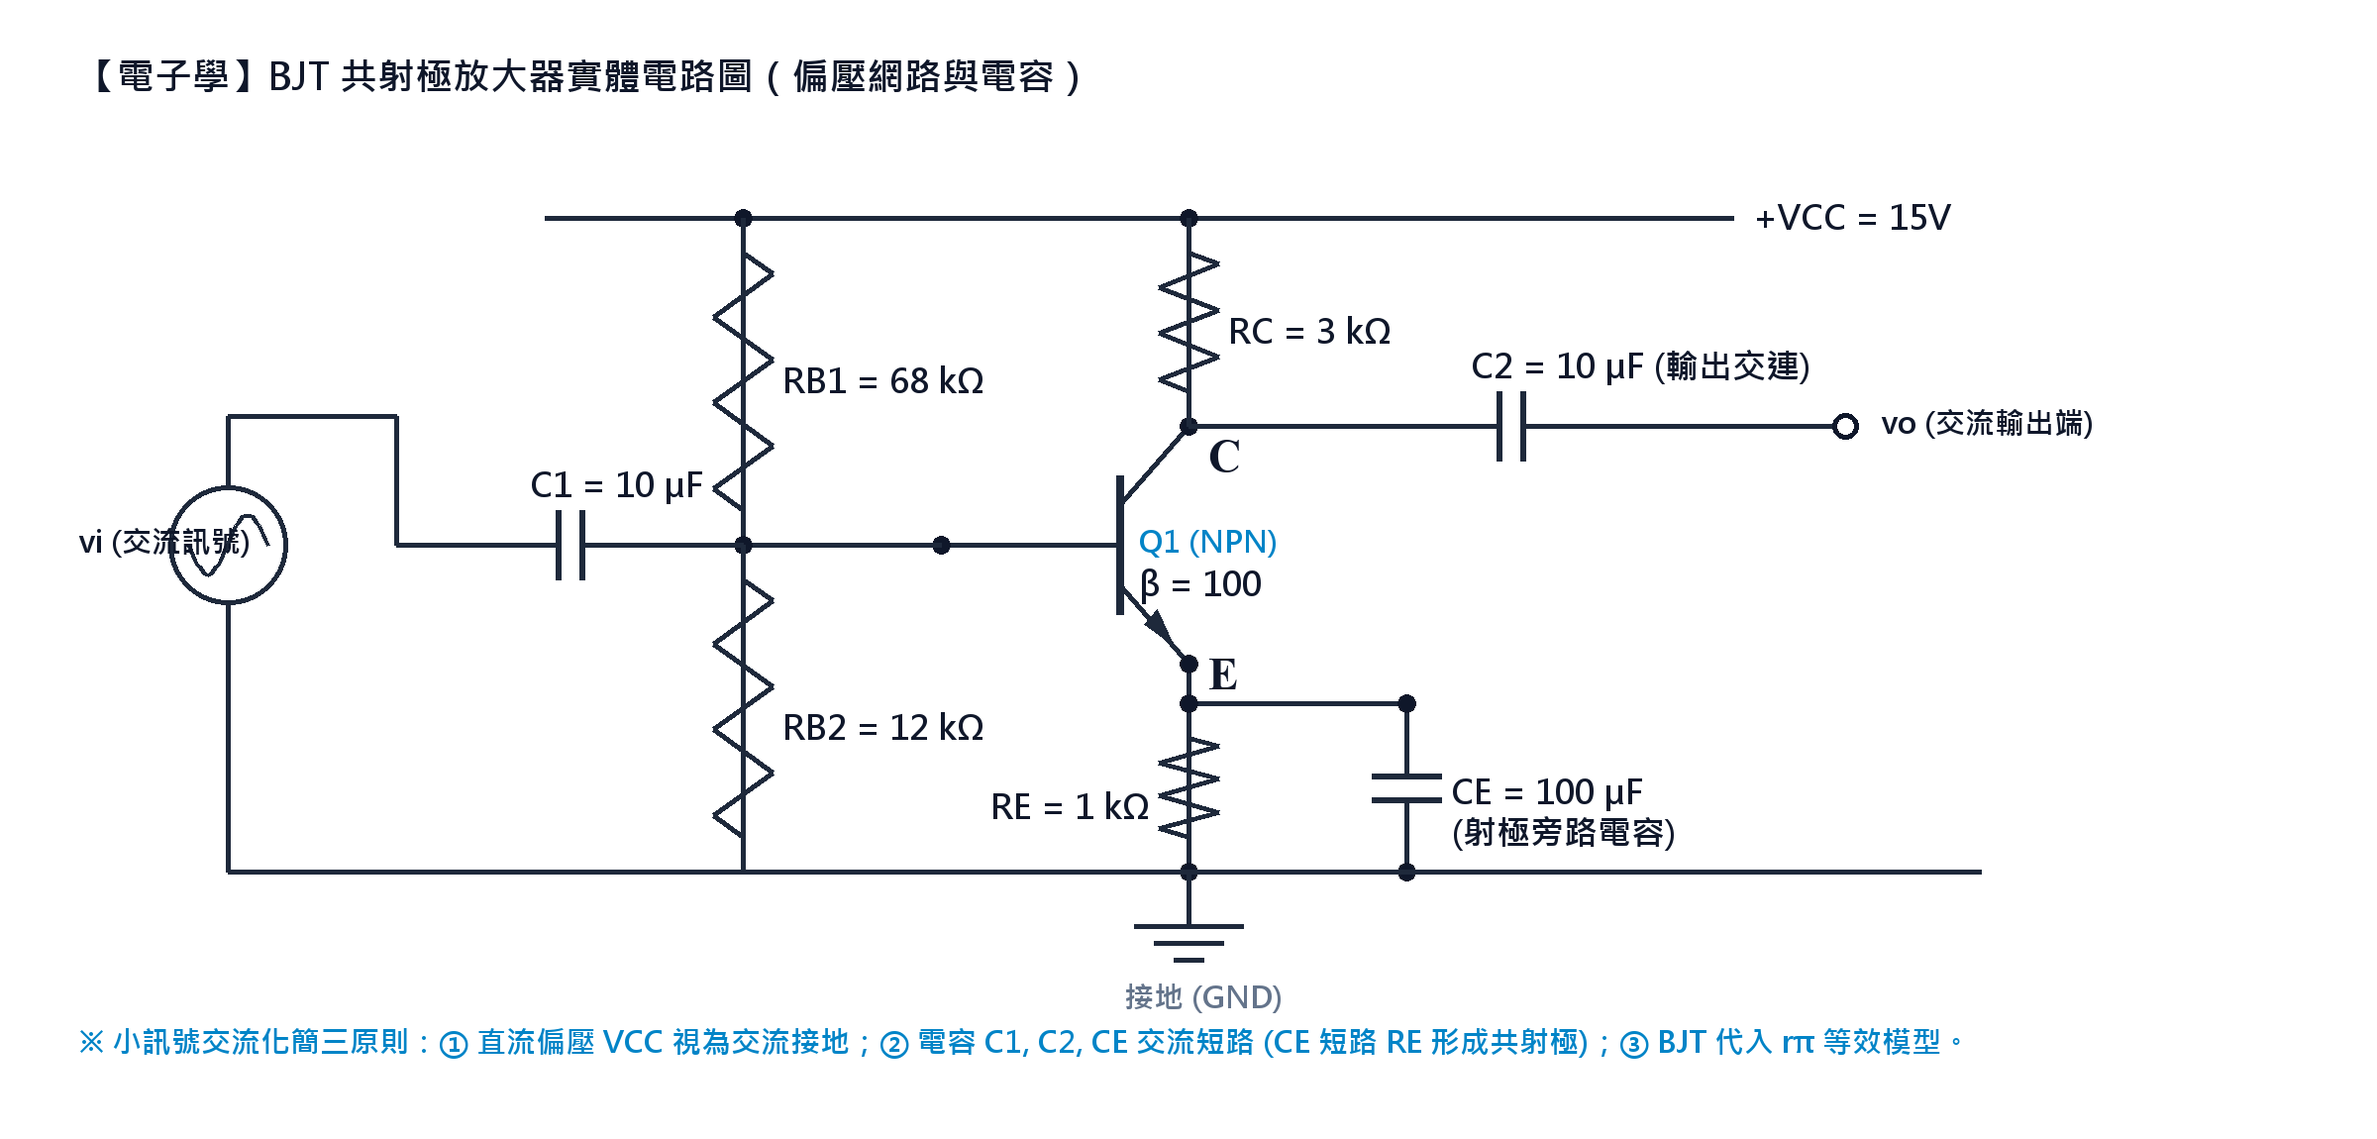
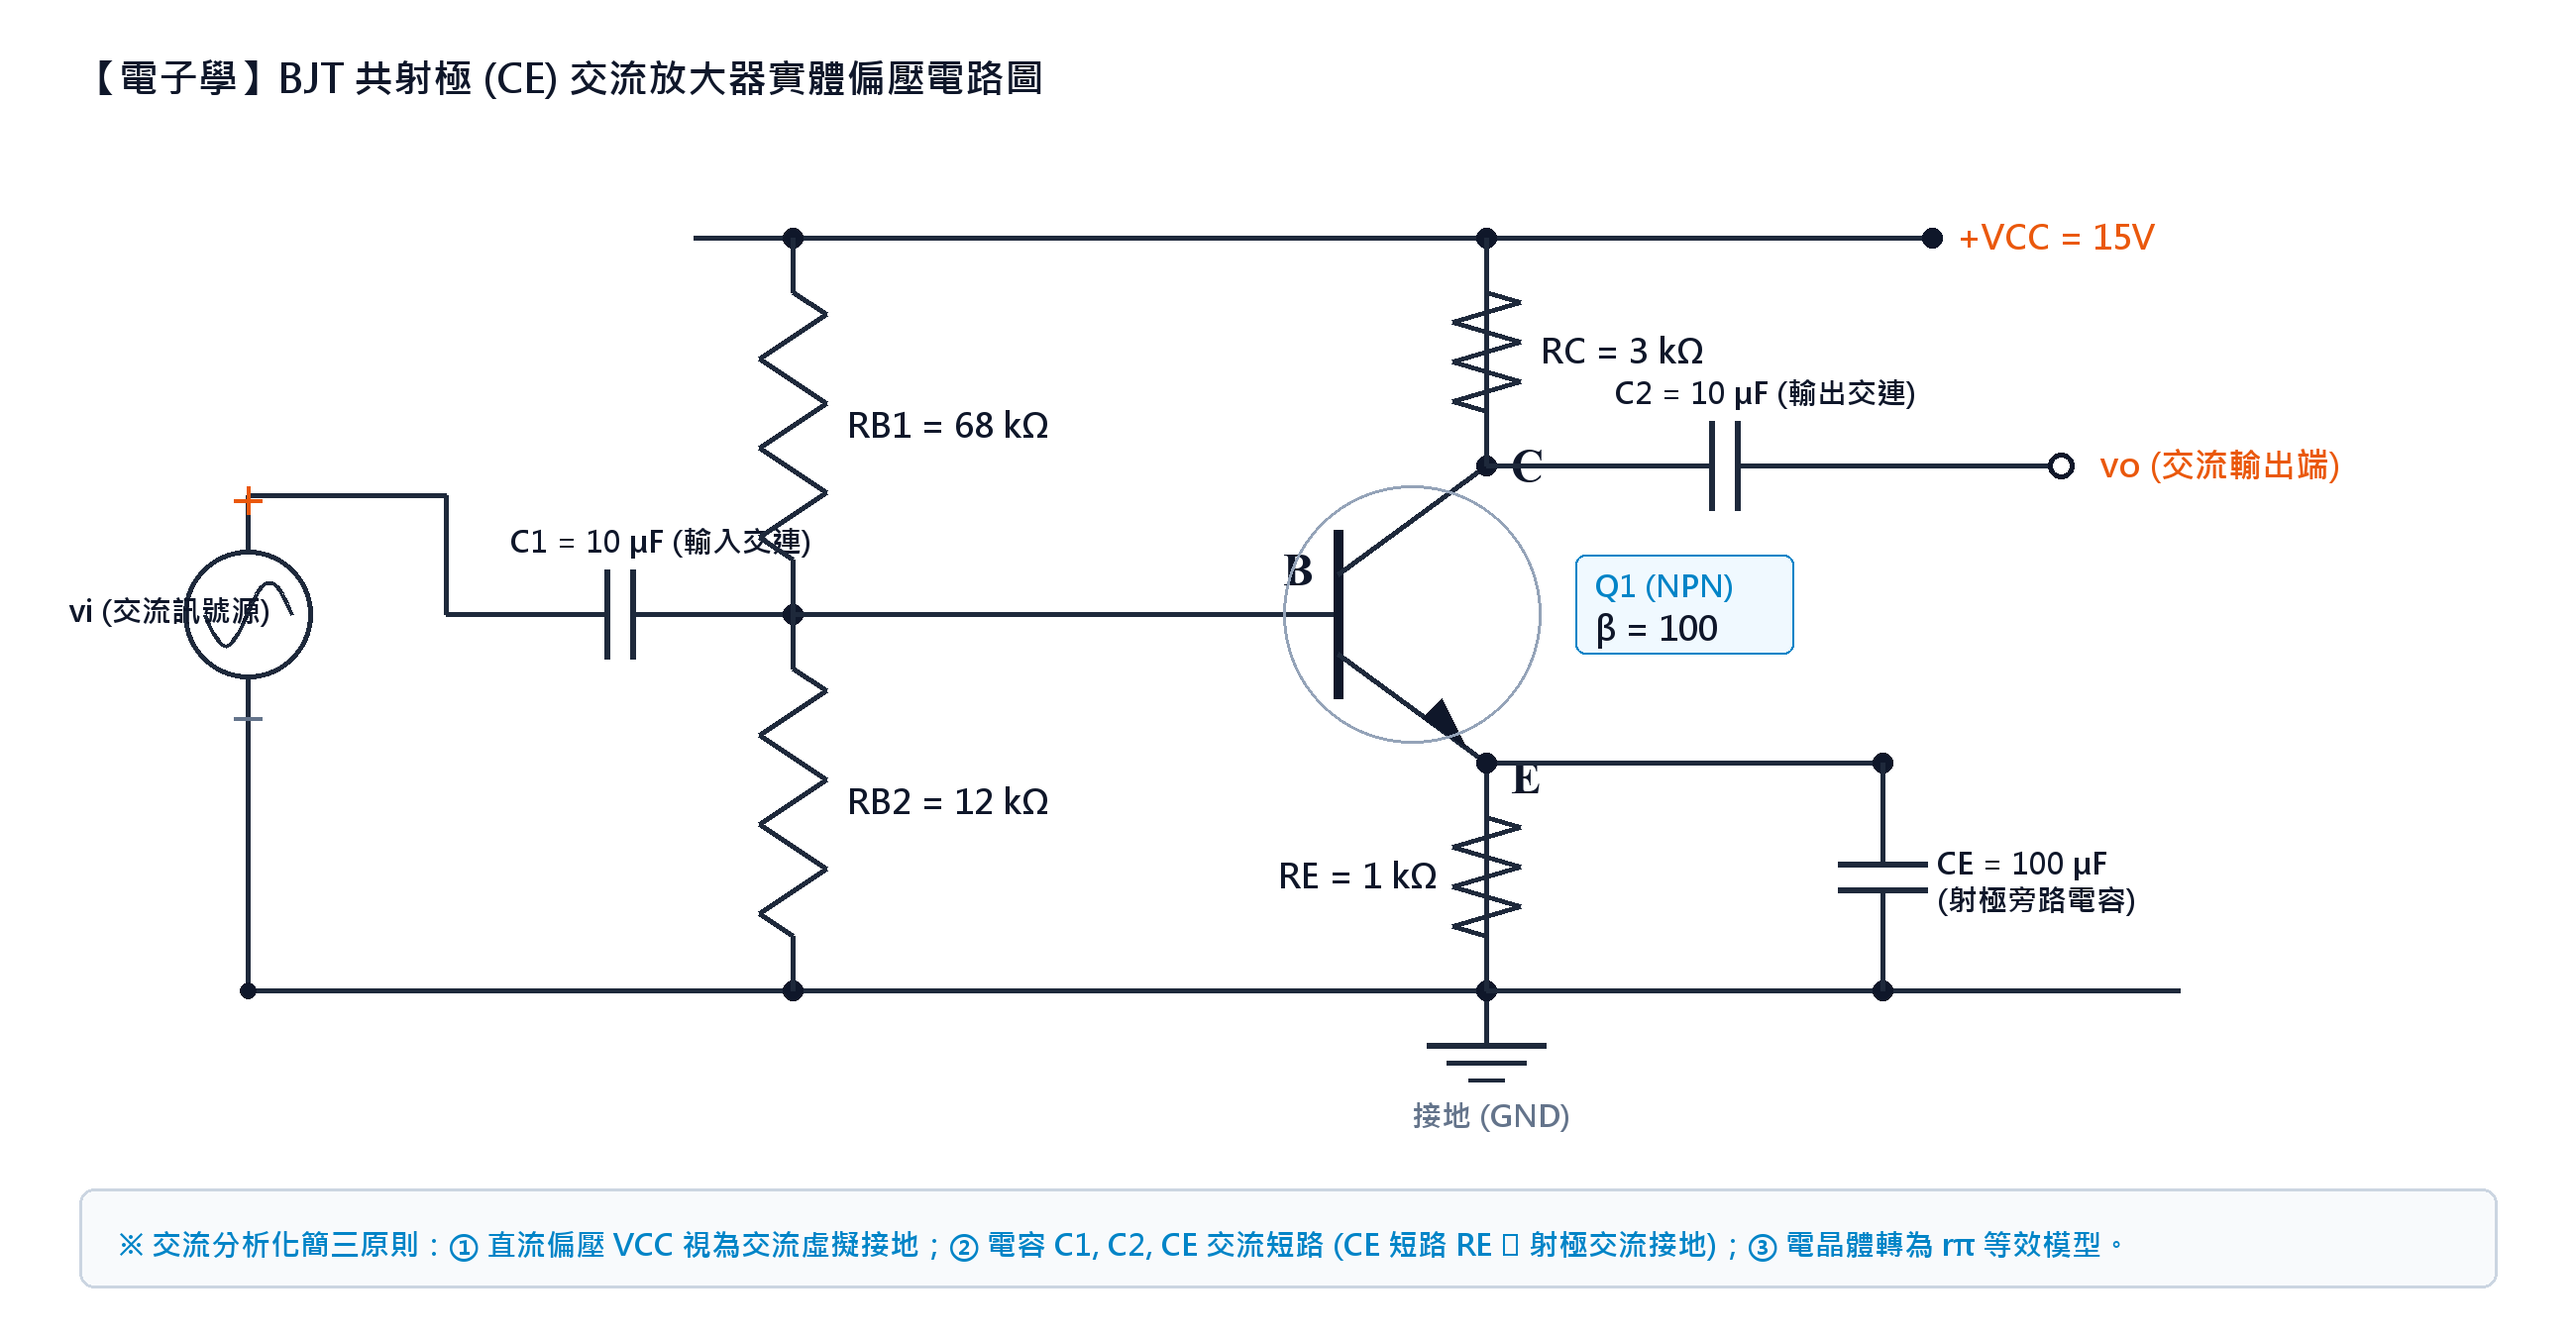
fix(math): configure KaTeX inline delimiters and upgrade high-res circuit diagrams

diff --git a/index.html b/index.html
@@ -10,6 +10,31 @@
     <link rel="preconnect" href="https://fonts.gstatic.com" crossorigin>
     <link href="https://fonts.googleapis.com/css2?family=Inter:wght@300;400;500;600;700;800&family=Montserrat:wght@400;600;700;800;900&family=Michroma&family=Noto+Sans+TC:wght@300;400;500;700;900&display=swap" rel="stylesheet">
 
+    <!-- KaTeX 数学公式渲染支援 (支援 $...$ 行內公式與 $$...$$ 區塊公式) -->
+    <link rel="stylesheet" href="https://cdn.jsdelivr.net/npm/katex@0.16.8/dist/katex.min.css">
+    <script defer src="https://cdn.jsdelivr.net/npm/katex@0.16.8/dist/katex.min.js"></script>
+    <script defer src="https://cdn.jsdelivr.net/npm/katex@0.16.8/dist/contrib/auto-render.min.js"></script>
+    <script>
+        document.addEventListener("DOMContentLoaded", function() {
+            var renderMath = function() {
+                if (typeof renderMathInElement === 'function') {
+                    renderMathInElement(document.body, {
+                        delimiters: [
+                            {left: '$$', right: '$$', display: true},
+                            {left: '$', right: '$', display: false},
+                            {left: '\\(', right: '\\)', display: false},
+                            {left: '\\[', right: '\\]', display: true}
+                        ],
+                        throwOnError: false
+                    });
+                } else {
+                    setTimeout(renderMath, 100);
+                }
+            };
+            renderMath();
+        });
+    </script>
+
     <style>
         :root {
             /* 品牌核心色彩系統 - 優雅淡奶橘 / 柔杏色 (Soft Terracotta & Apricot) */

diff --git a/electronics_bjt.html b/electronics_bjt.html
@@ -10,7 +10,27 @@
     <link href="https://fonts.googleapis.com/css2?family=Inter:wght@300;400;500;600;700;800&family=Montserrat:wght@600;700;800;900&family=Noto+Sans+TC:wght@300;400;500;700;900&family=Fira+Code:wght@400;500;600&display=swap" rel="stylesheet">
     <link rel="stylesheet" href="https://cdn.jsdelivr.net/npm/katex@0.16.8/dist/katex.min.css">
     <script defer src="https://cdn.jsdelivr.net/npm/katex@0.16.8/dist/katex.min.js"></script>
-    <script defer src="https://cdn.jsdelivr.net/npm/katex@0.16.8/dist/contrib/auto-render.min.js" onload="renderMathInElement(document.body);"></script>
+    <script defer src="https://cdn.jsdelivr.net/npm/katex@0.16.8/dist/contrib/auto-render.min.js"></script>
+    <script>
+        document.addEventListener("DOMContentLoaded", function() {
+            var renderMath = function() {
+                if (typeof renderMathInElement === 'function') {
+                    renderMathInElement(document.body, {
+                        delimiters: [
+                            {left: '$$', right: '$$', display: true},
+                            {left: '$', right: '$', display: false},
+                            {left: '\\(', right: '\\)', display: false},
+                            {left: '\\[', right: '\\]', display: true}
+                        ],
+                        throwOnError: false
+                    });
+                } else {
+                    setTimeout(renderMath, 100);
+                }
+            };
+            renderMath();
+        });
+    </script>
     
     <style>
         :root {
